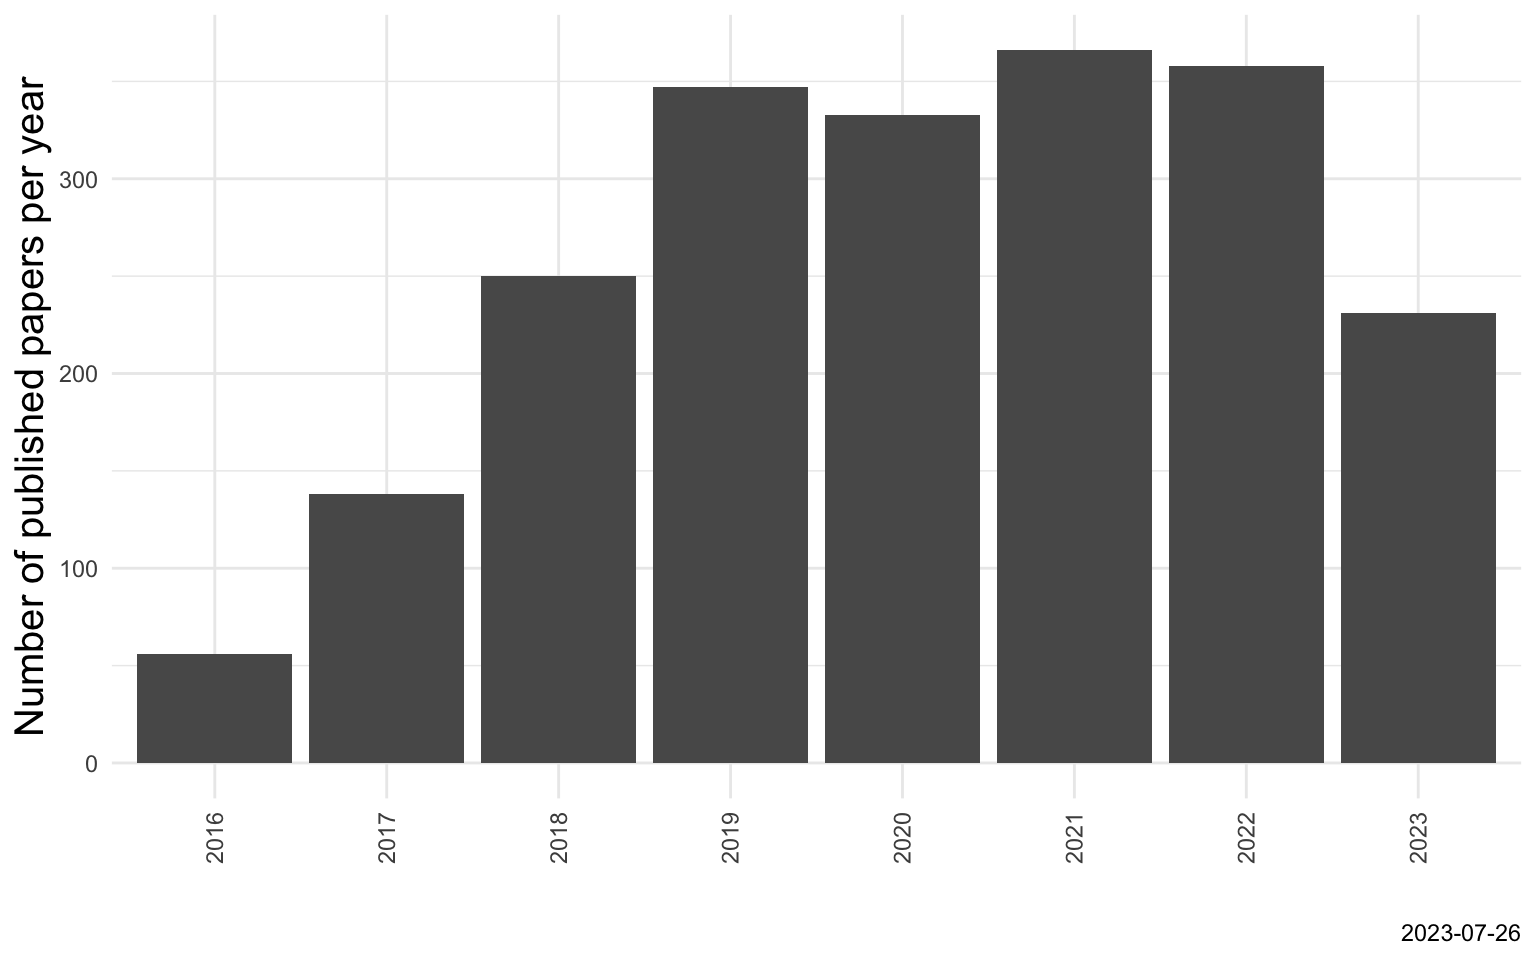
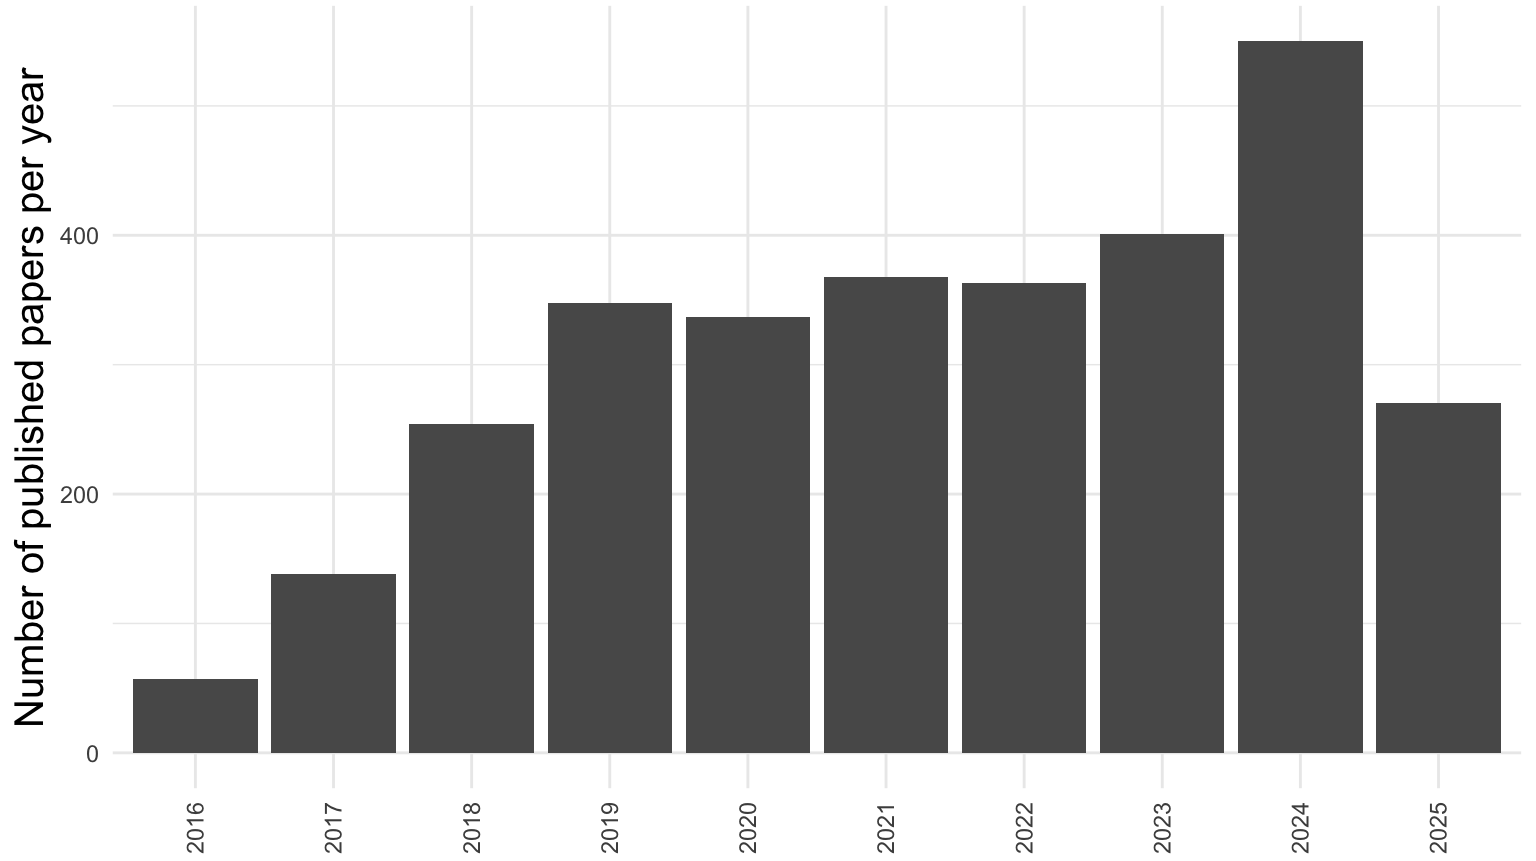
update for RSECon25

diff --git a/joss-poster.tex b/joss-poster.tex
@@ -34,46 +34,46 @@
   \begin{center}
     \includegraphics[width=0.75\textwidth]{joss-logo-transparent-crop.png} \\
     \textbf{Editorial board} \\
-    Arfon Smith (Editor-in-Chief),\\
-    Dan Foreman-Mackey,
-    Olivia Guest,
+    Arfon Smith (Editor-in-Chief),
+    Warrick Ball,
+    Samuel Forbes,
     Daniel S.~Katz,
+    Rachel Kurchin, \\
     Kevin M.~Moerman,
     Kyle Niemeyer,
-    George K.~Thiruvathukal,
-    Kristen Thyng
+    Kristen Thyng,
+    Chris Vernon, and 95 editors
   \end{center}
 }
 
 \begin{columns}
-\column{0.5} \block{About}{The Journal of Open Source Software (JOSS)
+\column{0.5} \block{About}{The \href{https://joss.theoj.org/}{Journal of Open Source Software (JOSS)}
   is an academic journal (ISSN 2475-9066) that publishes short
   articles describing open source software with a research
   application.  The review process includes checking that the
   software itself
   \href{https://joss.readthedocs.io/en/latest/review_checklist.html}{meets
     some modern standards}, including having documentation, tests
-  (preferably automated) and community guidelines.  This way, JOSS
+  and community guidelines.  This way, JOSS
   aims to give software creators a citable artefact
   through which their research contribution can be recognised,
   and to encourage them to use good software practice.}
 
 \block{Publication statistics}{
+  \vspace{-1.32em}
   \begin{center}
     \includegraphics[width=0.43\textwidth]{joss-papers-per-year.png}
   \end{center}
+  \vspace{-1.32em}
   \begin{center}
     \emph{Most-cited articles}:
   \begin{tabular}{p{0.62\linewidth}@{\quad}cc}
     \textbf{Title} & \textbf{Date} & \textbf{Citations} \\
-    \href{http://dx.doi.org/10.21105/joss.01686}{Welcome to the Tidyverse} & 2019-11-21 & 6\,747 \\
-    \href{http://dx.doi.org/10.21105/joss.00861}{UMAP: Uniform Manifold Approximation and Projection}
-    & 2018-09-02 & 3\,618 \\
-    \href{http://dx.doi.org/10.21105/joss.03021}{seaborn: statistical data visualization} & 2021-04-06 & 1\,678 \\
-    \href{http://dx.doi.org/10.21105/joss.00024}{corner.py: Scatterplot matrices in Python} & 2016-06-08 & 1\,081 \\
-    \href{http://dx.doi.org/10.21105/joss.03139}
-         {performance: An R Package for Assessment, Comparison and Testing of Statistical Models}
-         & 2021-04-21 & 915 \\
+    \href{http://doi.org/10.21105/joss.01686}{Welcome to the Tidyverse} & 2019-11-21 & 15\,610 \\
+    \href{http://doi.org/10.21105/joss.00861}{UMAP: Uniform Manifold Approximation and Projection} & 2018-09-02 & 7\,244 \\
+    \href{http://doi.org/10.21105/joss.03021}{seaborn: statistical data visualization} & 2021-04-06 & 5\,012 \\
+    \href{http://doi.org/10.21105/joss.03139}{performance: An R Package for Assessment, Comparison and Testing of Statistical Models} & 2021-04-21 & 3\,257 \\
+    \href{http://doi.org/10.21105/joss.00772}{ggeffects: Tidy Data Frames of Marginal Effects from Regression Models} & 2018-06-29 & 1\,952 \\
   \end{tabular}
   \end{center}
 }
@@ -82,13 +82,19 @@
   \href{https://joss.readthedocs.io/en/latest/submitting.html}{\textbf{Publish your code!}}
   JOSS is developer-friendly.  If you've already developed a significant research code
   with an open source licence, good documentation and automatic tests,
-  we think it should only take an hour or two to prepare and submit your paper to JOSS.
+  we think it should only take an hour or two to prepare and submit your paper to JOSS. \\
   \\
-  \vspace{1.325em}
   \href{https://reviewers.joss.theoj.org/join}{\textbf{Volunteer to review!}}
-  The review process is used as an opportunity to help creators improve their software.
-  Reviewers are encourage to open issues and iteratively improve the software, rather
-than providing a few monolithic reviews, several weeks apart.}
+  JOSS reviews are used as a chance to help creators improve their software.
+  Reviewers are encouraged to open issues and iteratively improve the software, rather
+  than provide a few monolithic reviews. \\
+  \\
+  \href{https://blog.joss.theoj.org/2025/08/call-for-editors}{\textbf{Become an editor!}}
+  We currently have a call open for new editors, who find reviewers and guide them through
+  the process.  Read about our
+  \href{https://joss.readthedocs.io/en/latest/expectations.html}{expectations for editors}
+  and apply via the JOSS blog post.
+}
 
 \column{0.5}
 \block{Publication workflow}{
@@ -100,7 +106,8 @@ than providing a few monolithic reviews, several weeks apart.}
 \block{Behind the scenes}
 {JOSS streamlines its editorial processes by using software
   development tools.  Pre-review and review discussions happen in
-  GitHub issues.  Many editorial steps are handled by the editorial
+  \href{https://github.com/openjournals/joss-reviews/issues/}{GitHub issues}.
+  Many editorial steps are handled by the editorial
   bot: a \href{https://buffy.readthedocs.io/}{Ruby package}
   that interacts with GitHub via its API to do things
   like generate the pre-review and review issues, post checklists,
@@ -119,8 +126,8 @@ than providing a few monolithic reviews, several weeks apart.}
 %   \end{center}}
 %   \subcolumn{0.55}
   \block{About this poster}{
-Presented by Warrick Ball at the \emph{Seventh Annual Conference for Research Software Engineering}
-(RSECon23) at Swansea University, UK, 5-7 Sep 2023. Publication workflow diagram by Kyle Niemeyer. \\
+Presented by Warrick Ball at the \emph{Ninth Annual Conference for Research Software Engineering}
+(RSECon25) at the University of Warwick, UK, 9-11 Sep 2025. Publication workflow diagram by Kyle Niemeyer. \\
 
 \begin{wrapfigure}[5]{r}{10cm}\vskip-1em\includegraphics[width=\linewidth]{by.png}\end{wrapfigure}
 Licensed under a Creative Commons Attribution 4.0 \\
@@ -133,8 +140,8 @@ International License: \\
 % {\begin{center}\begin{tabular}{p{20cm}|p{10cm}}
 % %   & \textbf{JOSS homepage} \\
 % %   & \url{https://joss.theoj.org} \\
-%       Presented by Warrick Ball at the \emph{Seventh Annual Conference for Research Software Engineering}
-%       (RSECon23) at Swansea University, 5-7 Sep 2023. \includegraphics[width=0.15\textwidth]{by.png} &
+%       Presented by Warrick Ball at the \emph{Ninth Annual Conference for Research Software Engineering}
+%       (RSECon23) at the University of Warwick, 9-11 Sep 2025. \includegraphics[width=0.15\textwidth]{by.png} &
 %       \textbf{JOSS homepage}
 %        \\
 % \end{tabular}\end{center}}
@@ -156,7 +163,7 @@ International License: \\
 
 % % SECOND column
 % \column{0.4}
-% %Second column with first block’s top edge aligned with with previous column’s top.
+% %Second column with first block’s top edge aligned with previous column’s top.
 
 % % Second column - first block
 % \block[titleleft]{Smaller Column}{Test}
